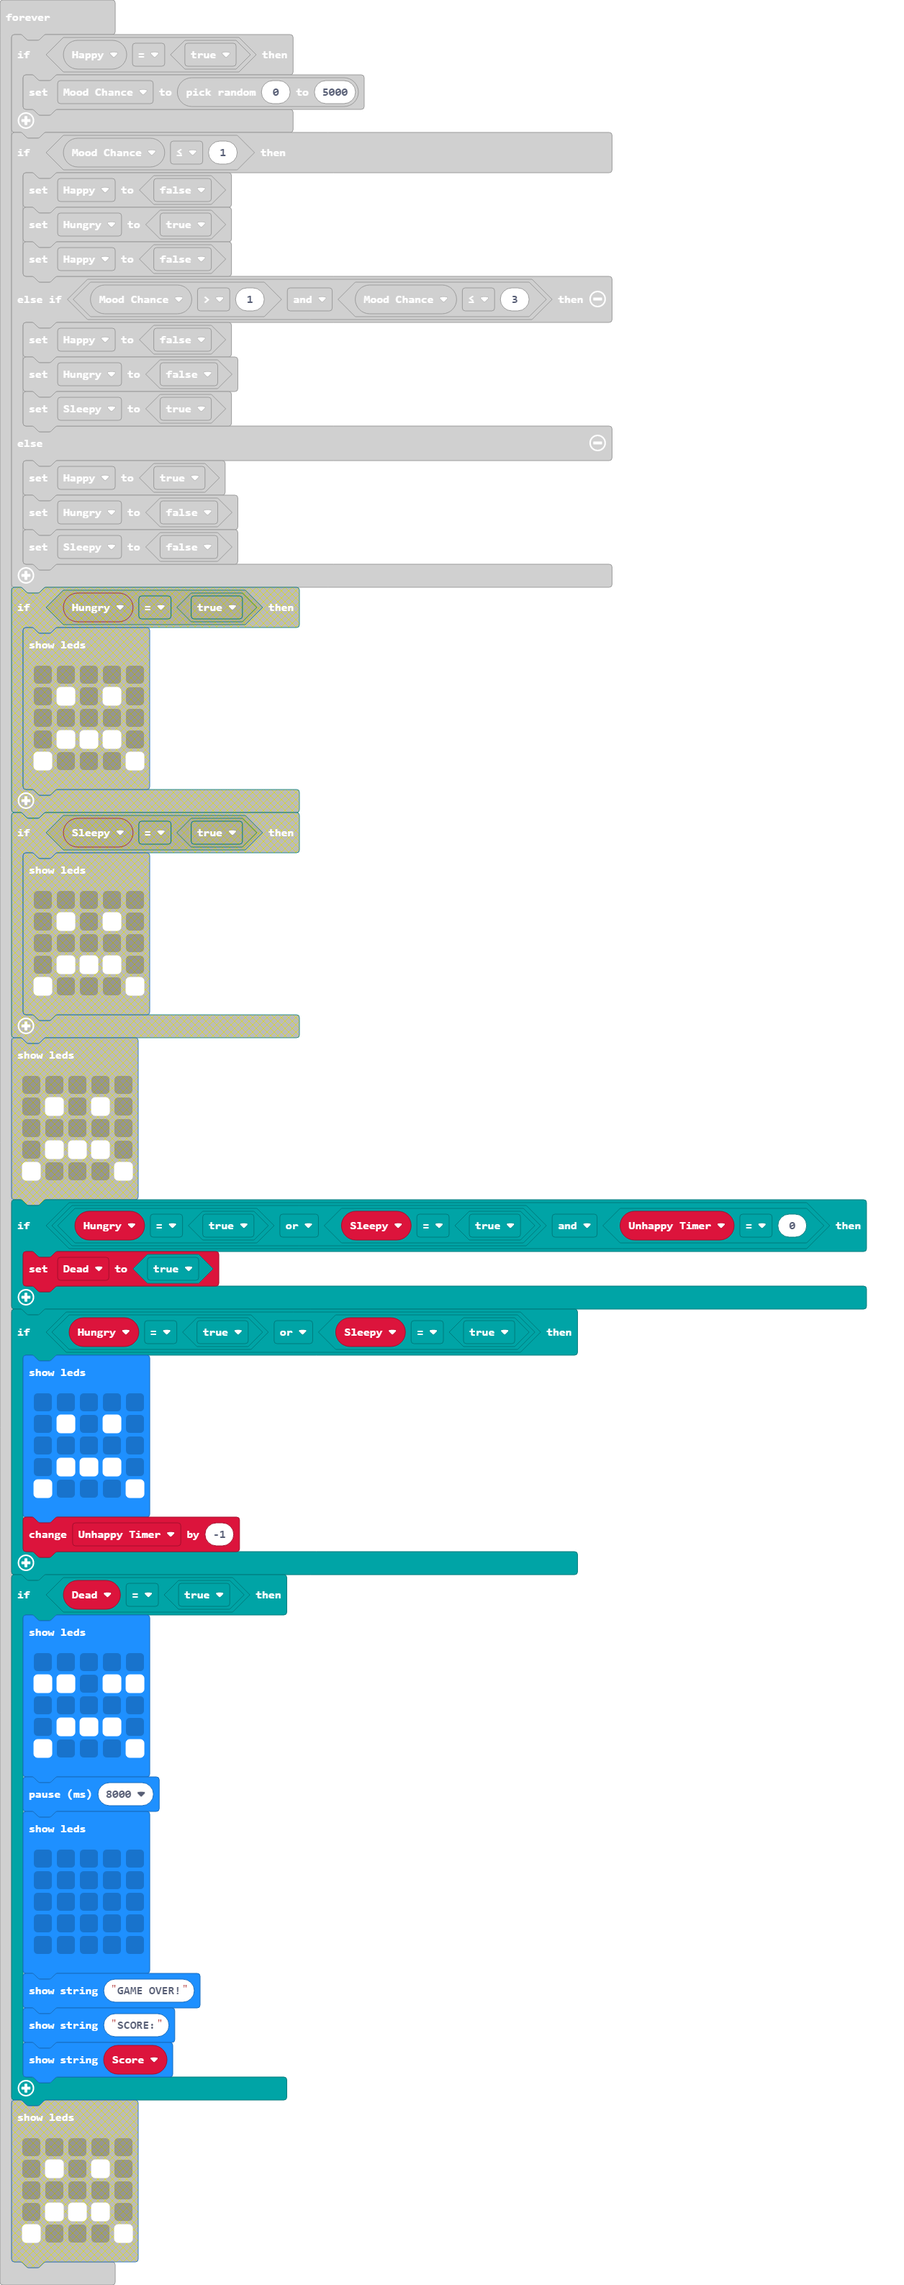
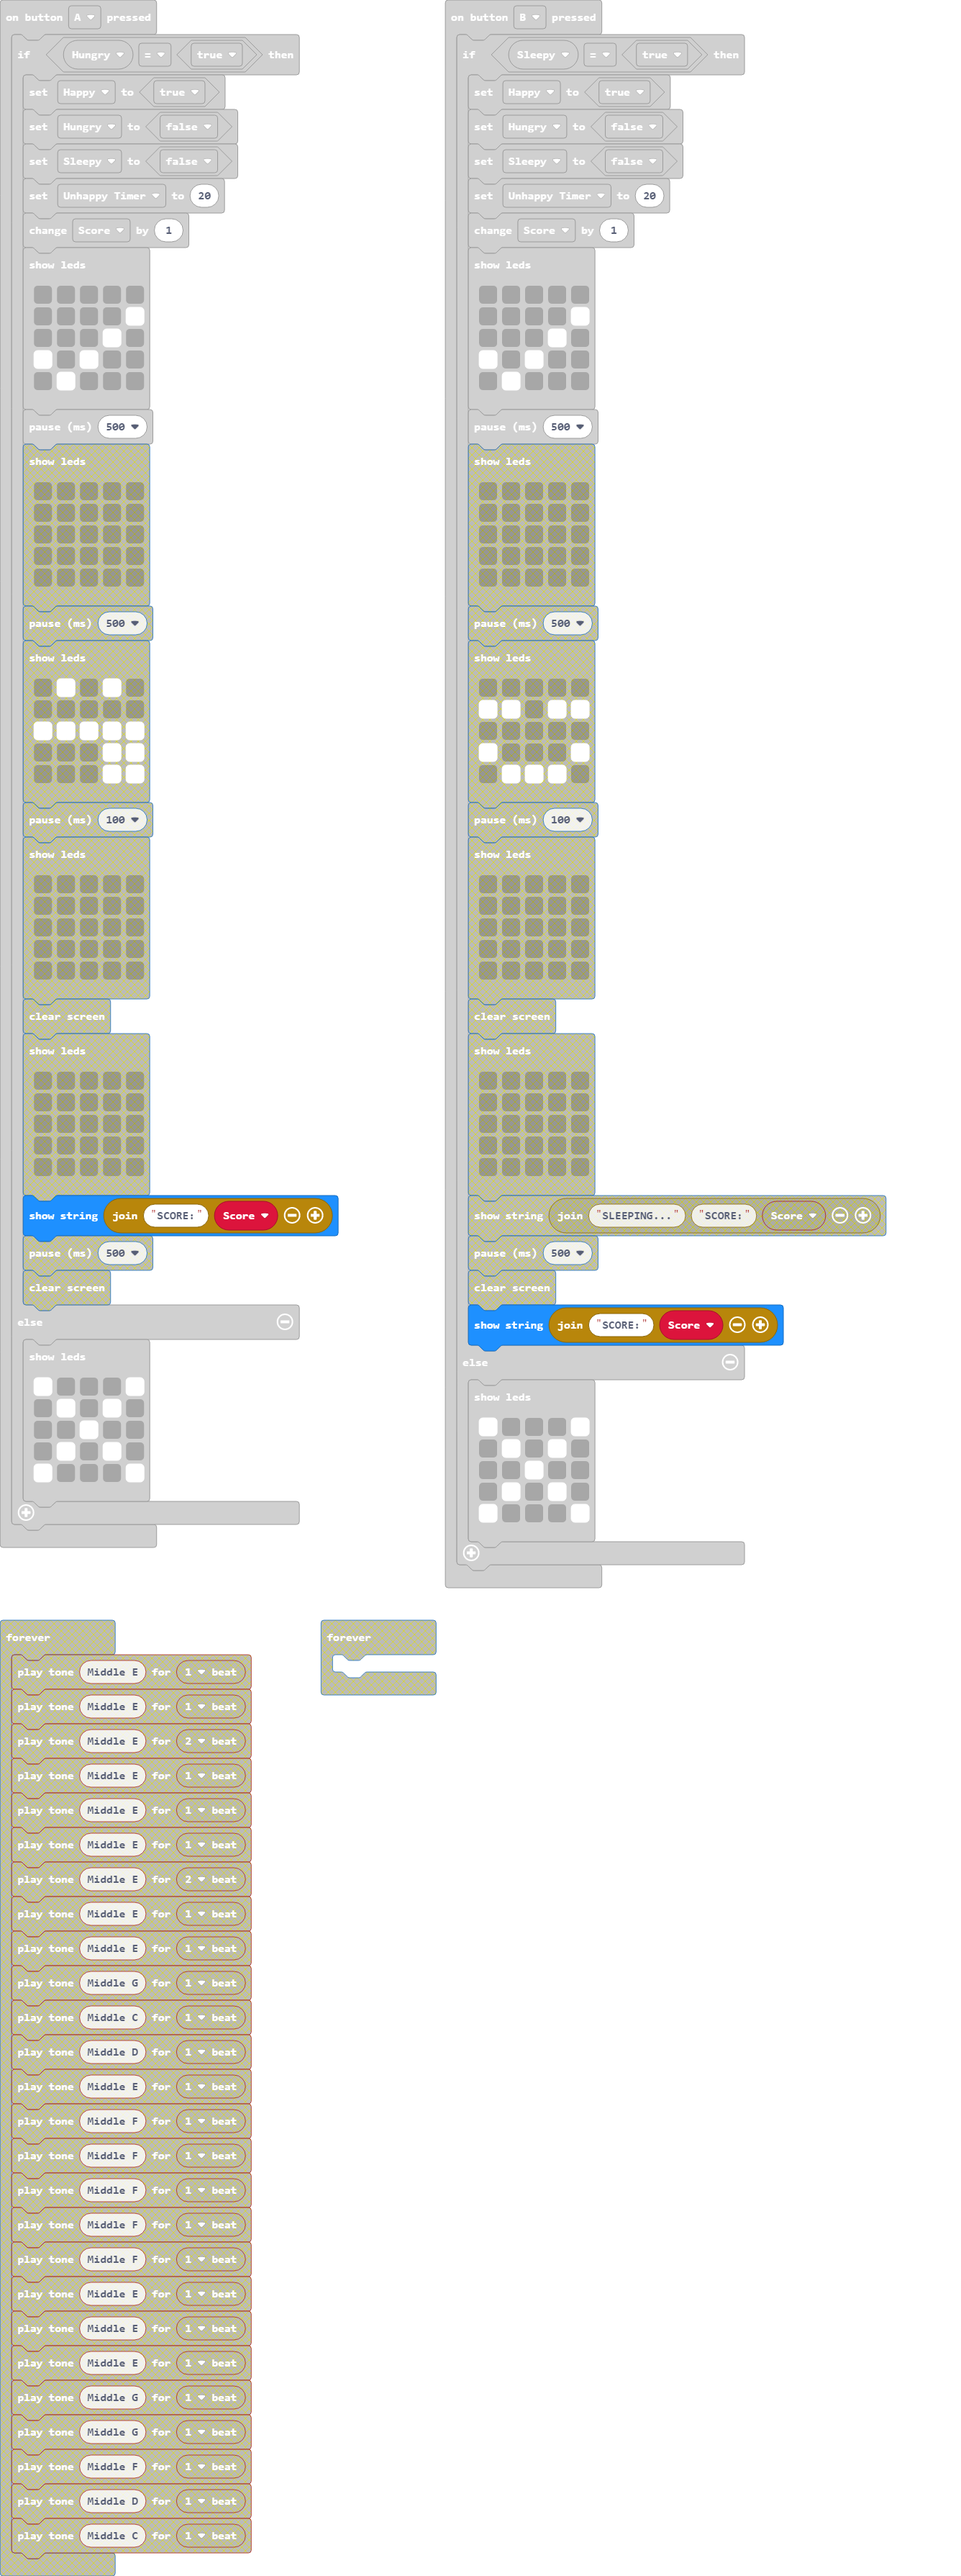
Update main.blocks, main.ts

diff --git a/main.ts b/main.ts
@@ -13,40 +13,7 @@ input.onButtonPressed(Button.A, function () {
             . # . . .
             `)
         basic.pause(500)
-        basic.showLeds(`
-            . . . . .
-            . . . . .
-            . . . . .
-            . . . . .
-            . . . . .
-            `)
-        basic.pause(500)
-        basic.showLeds(`
-            . # . # .
-            . . . . .
-            # # # # #
-            . . . # #
-            . . . # #
-            `)
-        basic.pause(100)
-        basic.showLeds(`
-            . . . . .
-            . . . . .
-            . . . . .
-            . . . . .
-            . . . . .
-            `)
-        basic.clearScreen()
-        basic.showLeds(`
-            . . . . .
-            . . . . .
-            . . . . .
-            . . . . .
-            . . . . .
-            `)
-        basic.showString("EATING..." + "SCORE:" + Score)
-        basic.pause(500)
-        basic.clearScreen()
+        basic.showString("SCORE:" + Score)
     } else {
         basic.showLeds(`
             # . . . #
@@ -72,40 +39,7 @@ input.onButtonPressed(Button.B, function () {
             . # . . .
             `)
         basic.pause(500)
-        basic.showLeds(`
-            . . . . .
-            . . . . .
-            . . . . .
-            . . . . .
-            . . . . .
-            `)
-        basic.pause(500)
-        basic.showLeds(`
-            . . . . .
-            # # . # #
-            . . . . .
-            # . . . #
-            . # # # .
-            `)
-        basic.pause(100)
-        basic.showLeds(`
-            . . . . .
-            . . . . .
-            . . . . .
-            . . . . .
-            . . . . .
-            `)
-        basic.clearScreen()
-        basic.showLeds(`
-            . . . . .
-            . . . . .
-            . . . . .
-            . . . . .
-            . . . . .
-            `)
-        basic.showString("SLEEPING..." + "SCORE:" + Score)
-        basic.pause(500)
-        basic.clearScreen()
+        basic.showString("SCORE:" + Score)
     } else {
         basic.showLeds(`
             # . . . #
@@ -218,37 +152,6 @@ basic.forever(function () {
         basic.showString("SCORE:")
         basic.showString("" + (Score))
     }
-})
-basic.forever(function () {
-    music.playTone(330, music.beat(BeatFraction.Whole))
-    music.playTone(330, music.beat(BeatFraction.Whole))
-    music.playTone(330, music.beat(BeatFraction.Double))
-    music.playTone(330, music.beat(BeatFraction.Whole))
-    music.playTone(330, music.beat(BeatFraction.Whole))
-    music.playTone(330, music.beat(BeatFraction.Whole))
-    music.playTone(330, music.beat(BeatFraction.Double))
-    music.playTone(330, music.beat(BeatFraction.Whole))
-    music.playTone(330, music.beat(BeatFraction.Whole))
-    music.playTone(392, music.beat(BeatFraction.Whole))
-    music.playTone(262, music.beat(BeatFraction.Whole))
-    music.playTone(294, music.beat(BeatFraction.Whole))
-    music.playTone(330, music.beat(BeatFraction.Whole))
-    music.playTone(349, music.beat(BeatFraction.Whole))
-    music.playTone(349, music.beat(BeatFraction.Whole))
-    music.playTone(349, music.beat(BeatFraction.Whole))
-    music.playTone(349, music.beat(BeatFraction.Whole))
-    music.playTone(349, music.beat(BeatFraction.Whole))
-    music.playTone(330, music.beat(BeatFraction.Whole))
-    music.playTone(330, music.beat(BeatFraction.Whole))
-    music.playTone(330, music.beat(BeatFraction.Whole))
-    music.playTone(392, music.beat(BeatFraction.Whole))
-    music.playTone(392, music.beat(BeatFraction.Whole))
-    music.playTone(349, music.beat(BeatFraction.Whole))
-    music.playTone(294, music.beat(BeatFraction.Whole))
-    music.playTone(262, music.beat(BeatFraction.Whole))
-})
-basic.forever(function () {
-	
 })
 basic.forever(function () {
 	
